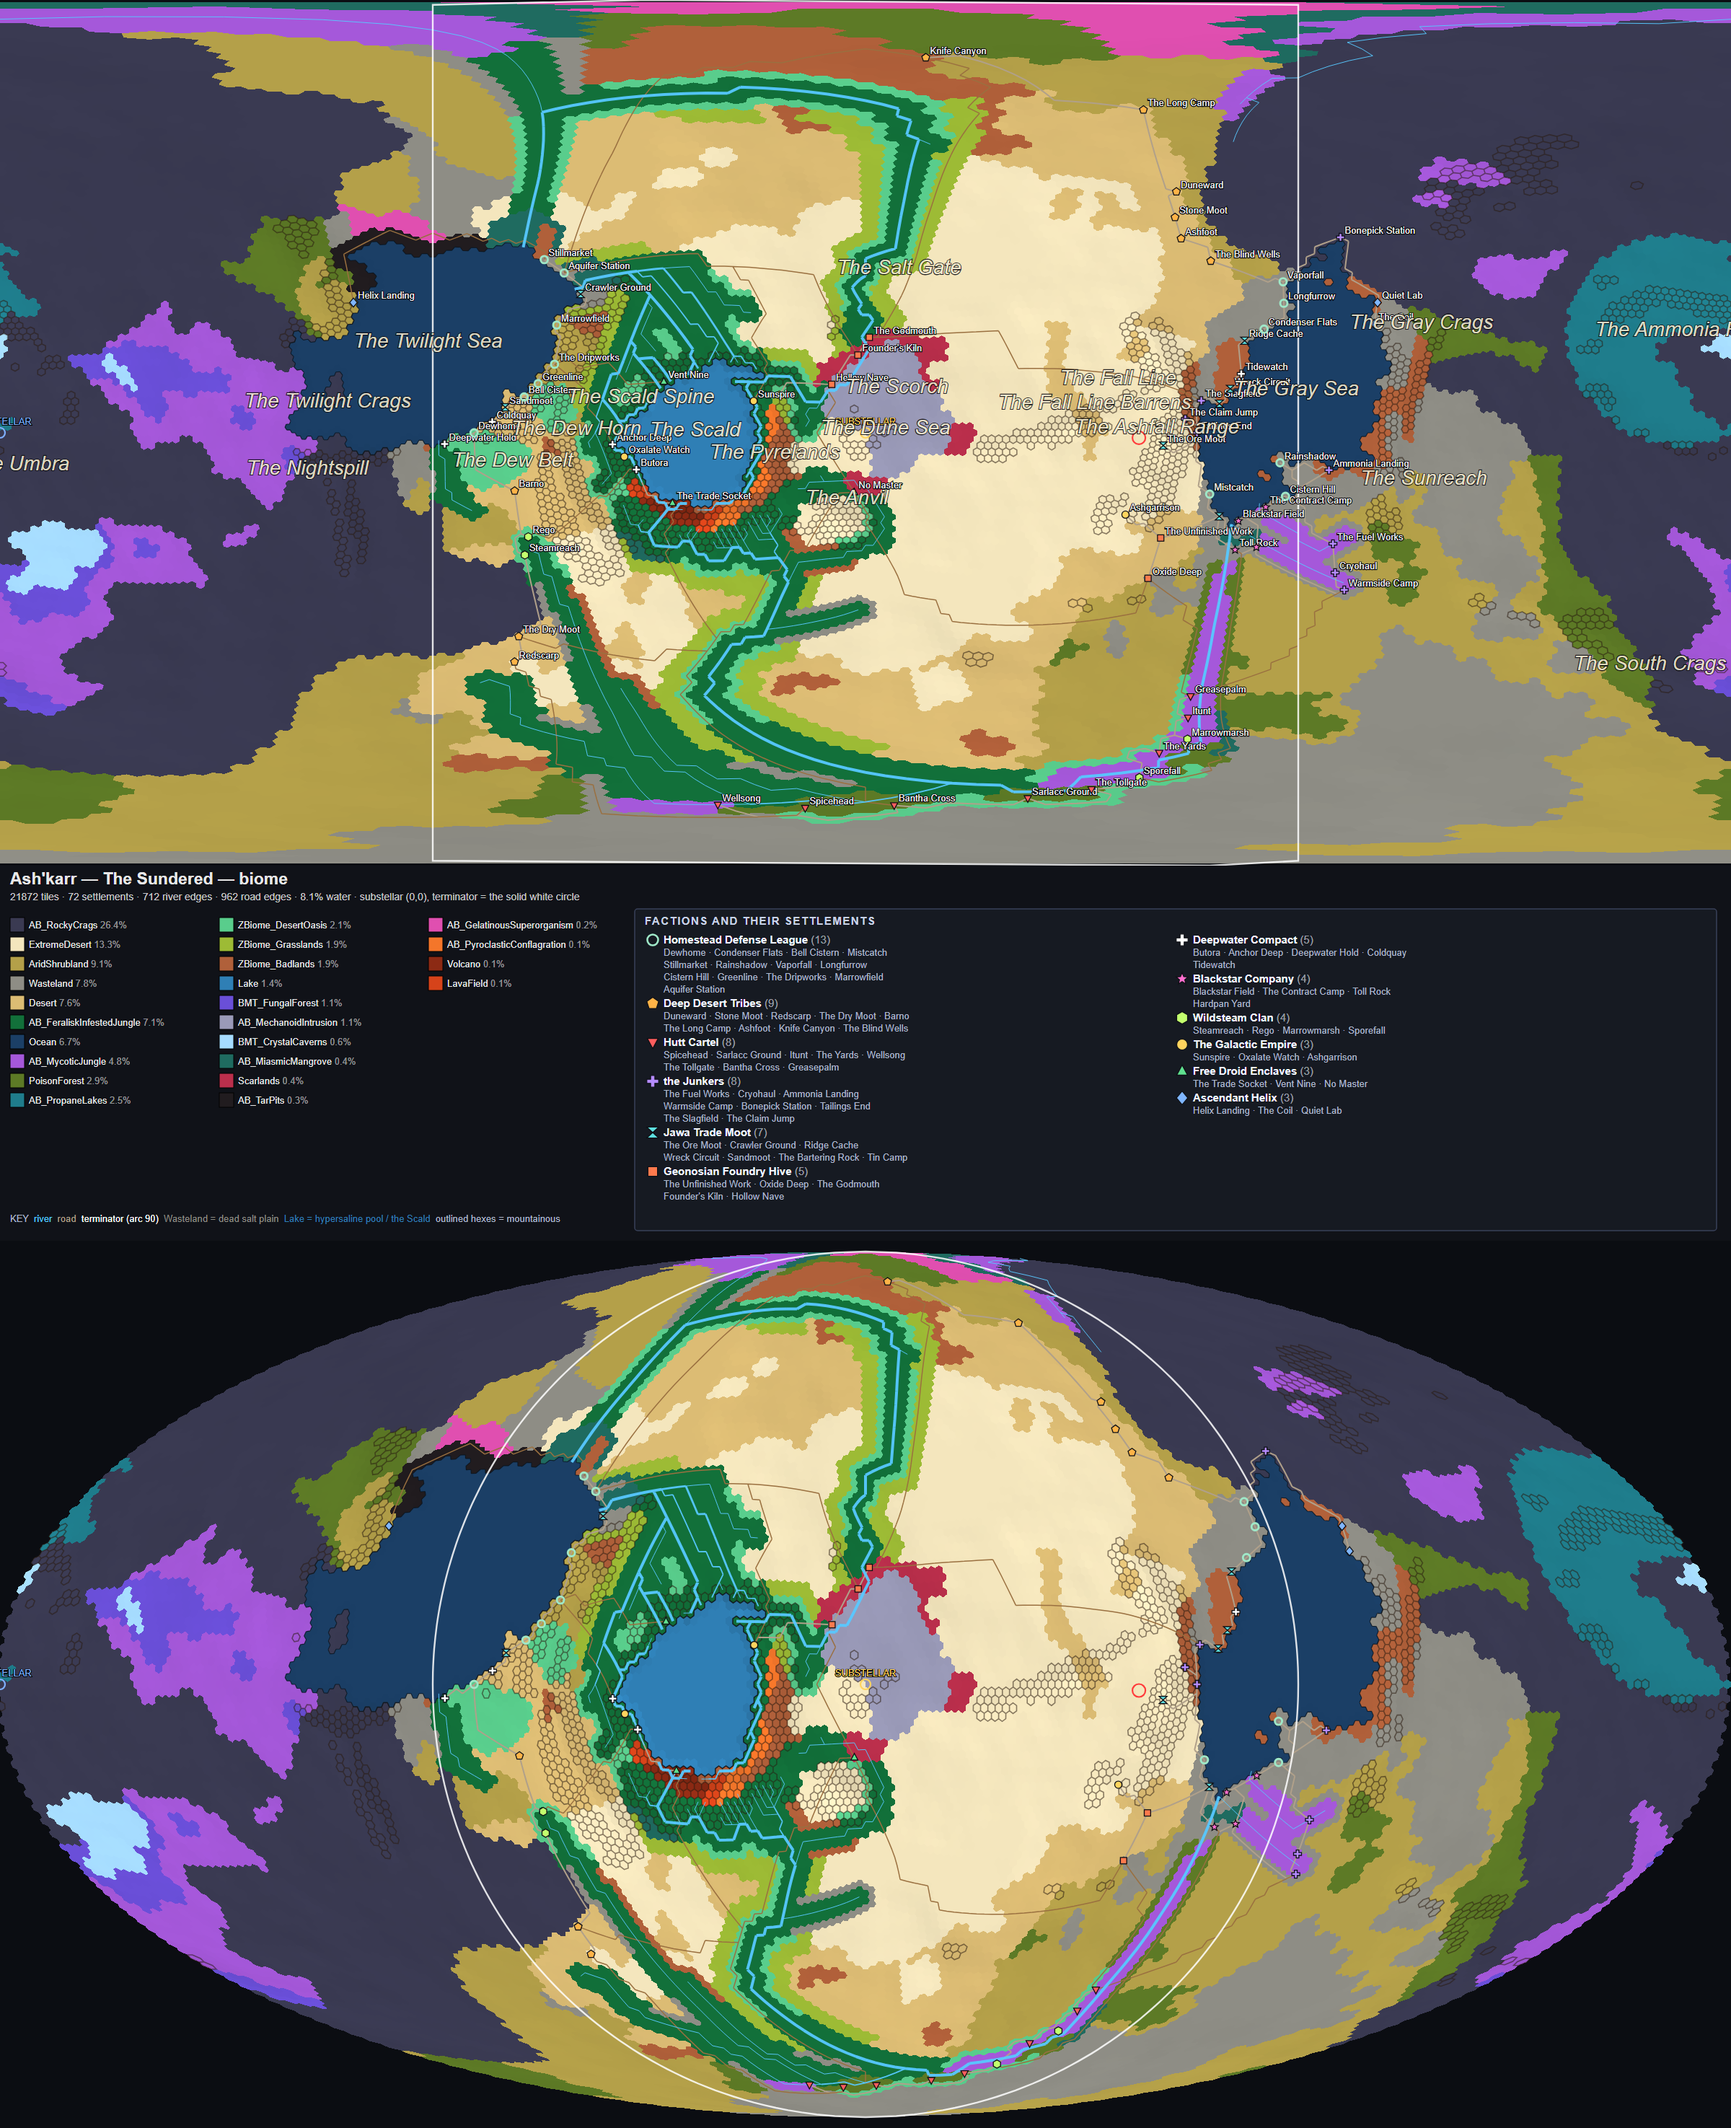
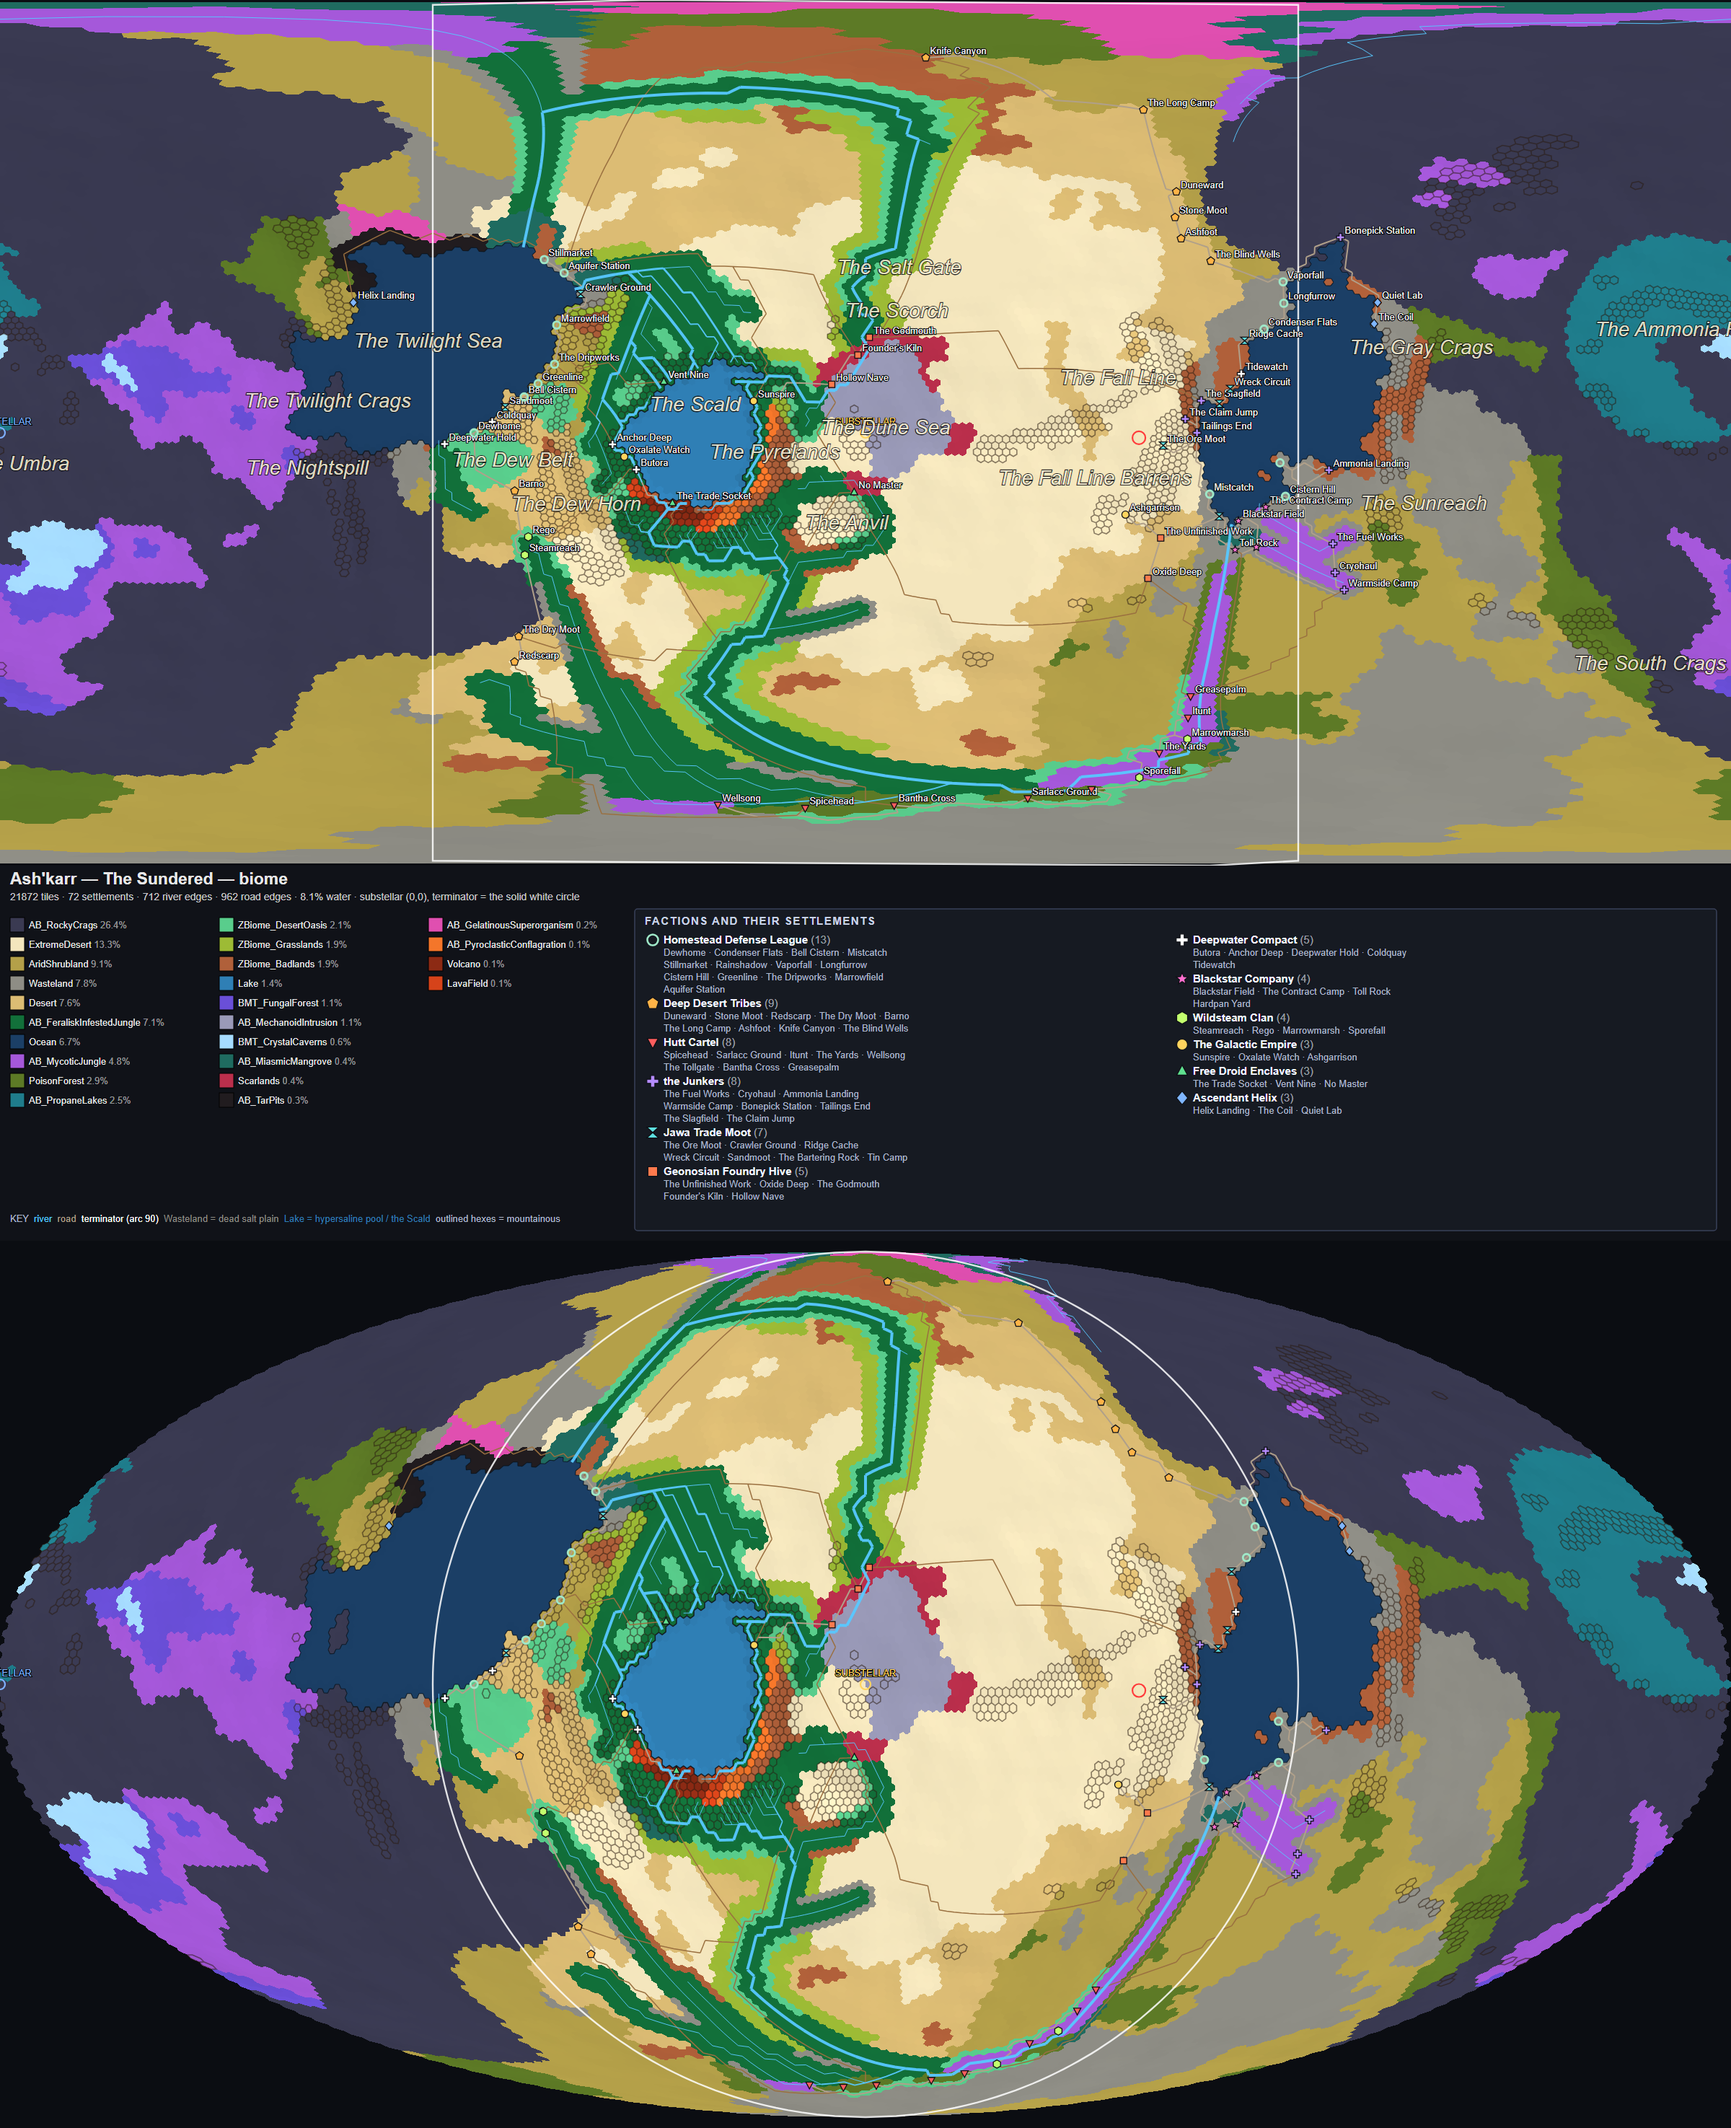
One box list for every label, not one per kind
Settlement names and region names decluttered only against their own kind, so
The Ashfall Range printed straight through The Claim Jump. Settlements claim their
box first; region names come last and dodge with the offset ladder.

diff --git a/src/RimMandrake/Utils/worldview.py b/src/RimMandrake/Utils/worldview.py
@@ -929,10 +929,16 @@ def draw_panel(svg, pv, proj, y0, layer, show, tooltips, corners, shade):
                     'stroke="#000" stroke-width="%.1f" paint-order="stroke">%s</text>'
                     % (xy[0][0], xy[0][1] - 11 * sc, 13 * sc, mark, 2.0 * sc, txt))
 
+    # 🔑 ONE box list for every label on the map. Settlement names and region names
+    # used to declutter against their own kind only, so "The Ashfall Range" printed
+    # straight through "The Claim Jump". Settlements claim their box first because
+    # they are point data; the region names come last and can dodge, having a ladder
+    # of offsets to dodge with.
+    label_boxes = []
+
     if "settlements" in show and pv.settlements:
         # the dots always draw; the NAMES declutter, because 72 holdings crowd the
         # terminator band into an unreadable smear
-        placed_px = []
         for st in pv.settlements:
             t = st["tile"]
             if t >= pv.n:
@@ -949,15 +955,18 @@ def draw_panel(svg, pv, proj, y0, layer, show, tooltips, corners, shade):
                        "rect" if shape == "square" else "polygon"), 1))
             if "labels" in show:
                 px, py = float(xy[0][0]), float(xy[0][1])
-                if any(abs(px - a) < 62 * sc and abs(py - b) < 13 * sc
-                       for a, b in placed_px):
+                name = st["name"] or ""
+                tx, ty, size = px + 6 * sc, py - 5 * sc, 13 * sc
+                box = (tx - 2 * sc, ty - 0.80 * size,
+                       tx + 0.52 * size * len(name) + 2 * sc, ty + 0.28 * size)
+                if any(box[0] < q[2] and q[0] < box[2]
+                       and box[1] < q[3] and q[1] < box[3] for q in label_boxes):
                     continue
-                placed_px.append((px, py))
+                label_boxes.append(box)
                 svg.add('<text x="%.1f" y="%.1f" font-size="%.1f" fill="#f0f0f0" '
                         'font-family="DejaVu Sans, sans-serif" stroke="#101014" '
                         'stroke-width="%.1f" paint-order="stroke">%s</text>'
-                        % (px + 6 * sc, py - 5 * sc, 13 * sc, 2.5 * sc,
-                           esc(st["name"] or "")))
+                        % (tx, ty, size, 2.5 * sc, esc(name)))
         stt = pv.info.get("startingTile")
         if stt is not None and stt < pv.n:
             xy, vis = proj.project(g.vec[stt][None, :], ref=g.vec[stt])
@@ -977,7 +986,7 @@ def draw_panel(svg, pv, proj, y0, layer, show, tooltips, corners, shade):
         # short ladder of vertical offsets before giving a name up entirely.
         MIN_SEP = 6.0
         drawn = []
-        placed = []      # (x0, y0, x1, y1) pixel boxes already taken
+        placed = label_boxes      # shared with the settlement names above
         for f in pv.features:
             idx = np.where(pv.feature_idx == f["index"])[0]
             if len(idx) < 8:
